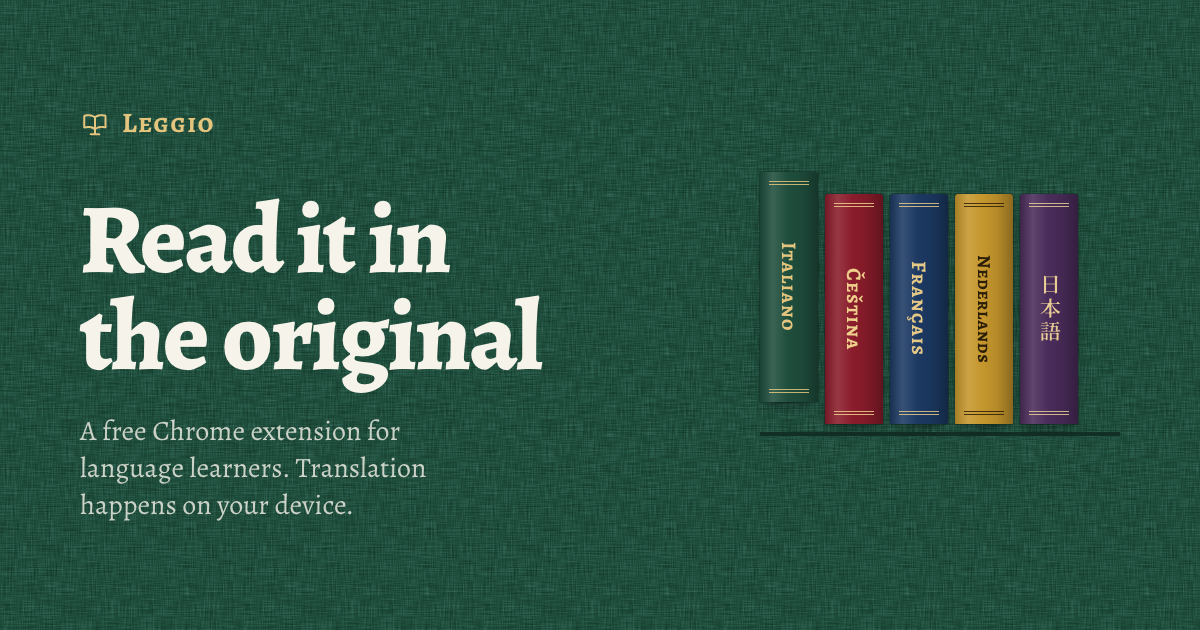
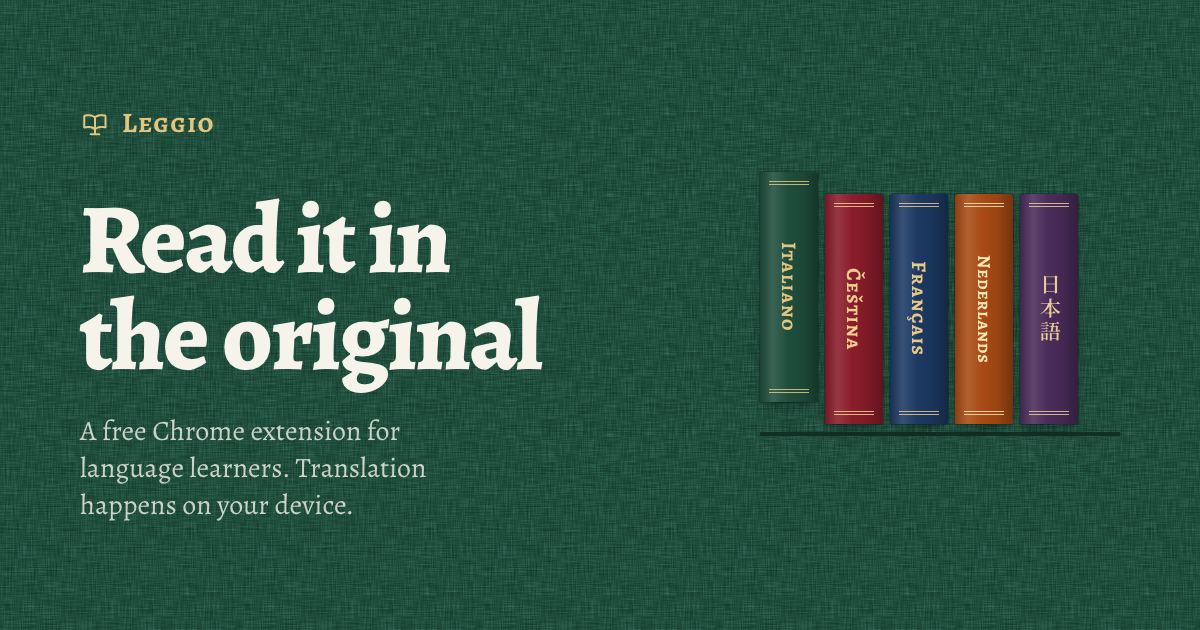
Dutch volume in burnt orange with light lettering
The Dutch cloth moves from ochre with near-black lettering to burnt orange
(#a84a14, deep #84390e) with cream lettering and pale gilt, like the other
volumes; secondary lettering held at 92% to stay above 4.5:1. The dark
footer override is gone. Share image re-rendered (v3).

Changed region(s): [[0.7708, 0.3016, 0.8633, 0.6937]]

diff --git a/site/assets/css/site.css b/site/assets/css/site.css
@@ -91,14 +91,12 @@
 [data-cloth="it"] { --cloth: #1f4e3d; --cloth-deep: #163b2e; --cloth-ink: #1f4e3d; --on-cloth: #f6f3ea; --on-cloth-2: rgb(246 243 234 / 0.8); --stamp: #e4c57e; }
 [data-cloth="cs"] { --cloth: #8a1c2b; --cloth-deep: #67131f; --cloth-ink: #8a1c2b; --on-cloth: #f8f1ea; --on-cloth-2: rgb(248 241 234 / 0.82); --stamp: #efcf8c; }
 [data-cloth="fr"] { --cloth: #1c3963; --cloth-deep: #132946; --cloth-ink: #1c3963; --on-cloth: #f3f2ee; --on-cloth-2: rgb(243 242 238 / 0.8); --stamp: #e6c987; }
-[data-cloth="nl"] { --cloth: #c5962c; --cloth-deep: #a47b1d; --cloth-ink: #6f500e; --on-cloth: #1f1708; --on-cloth-2: rgb(31 23 8 / 0.93); --stamp: #2a1e07; }
+[data-cloth="nl"] { --cloth: #a84a14; --cloth-deep: #84390e; --cloth-ink: #a84a14; --on-cloth: #fbf1e6; --on-cloth-2: rgb(251 241 230 / 0.92); --stamp: #fbe6b6; }
 [data-cloth="ja"] { --cloth: #4a2c5a; --cloth-deep: #351f41; --cloth-ink: #4a2c5a; --on-cloth: #f5f0f2; --on-cloth-2: rgb(245 240 242 / 0.8); --stamp: #e8cc94; }
 
 /* Focus rings: light on cloth, cloth-ink on paper */
 .cloth, [data-sync-cloth], .footer { --ring: var(--on-cloth); }
 .leaf, .spread, .doc { --ring: var(--cloth-ink); }
-/* The Dutch footer sits on the darker ochre board: full-strength lettering keeps it above 4.5:1 */
-[data-cloth="nl"] .footer, .footer[data-cloth="nl"] { --on-cloth: #140e03; --on-cloth-2: #140e03; }
 
 /* ---------- Base ---------- */
 

diff --git a/site/index.html b/site/index.html
@@ -12,12 +12,12 @@
   <meta property="og:site_name" content="Leggio">
   <meta property="og:title" content="Leggio: read it in the original">
   <meta property="og:description" content="A Chrome extension for language learners. See what a word means without leaving the original. Translation happens on your device.">
-  <meta property="og:image" content="https://getleggio.com/assets/img/og.png?v=2">
+  <meta property="og:image" content="https://getleggio.com/assets/img/og.png?v=3">
   <meta property="og:image:alt" content="Leggio: read it in the original. A shelf of five bookcloth volumes in Italian, Czech, French, Dutch and Japanese.">
   <meta property="og:image:width" content="1200">
   <meta property="og:image:height" content="630">
   <meta name="twitter:card" content="summary_large_image">
-  <meta name="twitter:image" content="https://getleggio.com/assets/img/og.png?v=2">
+  <meta name="twitter:image" content="https://getleggio.com/assets/img/og.png?v=3">
   <link rel="icon" href="/assets/img/favicon.svg?v=2" type="image/svg+xml">
   <link rel="apple-touch-icon" href="/assets/img/apple-touch-icon.png?v=2">
   <link rel="preload" href="/assets/fonts/alegreya-latin.woff2" as="font" type="font/woff2" crossorigin>

diff --git a/site/privacy/index.html b/site/privacy/index.html
@@ -12,7 +12,7 @@
   <meta property="og:site_name" content="Leggio">
   <meta property="og:title" content="Leggio privacy policy">
   <meta property="og:description" content="Translation runs on your device. Saved words stay in your browser. No accounts, no servers, no analytics.">
-  <meta property="og:image" content="https://getleggio.com/assets/img/og.png?v=2">
+  <meta property="og:image" content="https://getleggio.com/assets/img/og.png?v=3">
   <meta property="og:image:width" content="1200">
   <meta property="og:image:height" content="630">
   <meta name="twitter:card" content="summary_large_image">

diff --git a/site/install/index.html b/site/install/index.html
@@ -12,7 +12,7 @@
   <meta property="og:site_name" content="Leggio">
   <meta property="og:title" content="Install Leggio">
   <meta property="og:description" content="A free Chrome extension for language learners. Download it and load it in Chrome in about a minute.">
-  <meta property="og:image" content="https://getleggio.com/assets/img/og.png?v=2">
+  <meta property="og:image" content="https://getleggio.com/assets/img/og.png?v=3">
   <meta property="og:image:width" content="1200">
   <meta property="og:image:height" content="630">
   <meta name="twitter:card" content="summary_large_image">

diff --git a/DESIGN.md b/DESIGN.md
@@ -29,12 +29,12 @@ colors:
   on-cloth-fr: "#f3f2ee"
   on-cloth-fr-2: "rgb(243 242 238 / 0.8)"
   stamp-fr: "#e6c987"
-  cloth-nl: "#c5962c"
-  cloth-nl-deep: "#a47b1d"
-  cloth-nl-ink: "#6f500e"
-  on-cloth-nl: "#1f1708"
-  on-cloth-nl-2: "rgb(31 23 8 / 0.93)"
-  stamp-nl: "#2a1e07"
+  cloth-nl: "#a84a14"
+  cloth-nl-deep: "#84390e"
+  cloth-nl-ink: "#a84a14"
+  on-cloth-nl: "#fbf1e6"
+  on-cloth-nl-2: "rgb(251 241 230 / 0.92)"
+  stamp-nl: "#fbe6b6"
   cloth-ja: "#4a2c5a"
   cloth-ja-deep: "#351f41"
   cloth-ja-ink: "#4a2c5a"
@@ -277,7 +277,7 @@ components:
 
 **Creative North Star: "The Parallel-Text Edition"**
 
-Leggio is dressed as a clothbound bilingual series: each source language is a volume in its own bookcloth, and the site wears the cloth of whichever volume is open. The cloth is saturated, woven and full-bleed. It owns the page. Paper appears only as physical pages laid on it: the open spread in the hero, the preface and glossary leaves, the tipped-in plate, the gloss slips. Lettering on the cloth is blocked in gilt (or blind-stamped, on the ochre Dutch volume). The reading texts are real public-domain openings, set like an edition, with running heads, folios, chapter lines and margin line numbers.
+Leggio is dressed as a clothbound bilingual series: each source language is a volume in its own bookcloth, and the site wears the cloth of whichever volume is open. The cloth is saturated, woven and full-bleed. It owns the page. Paper appears only as physical pages laid on it: the open spread in the hero, the preface and glossary leaves, the tipped-in plate, the gloss slips. Lettering on the cloth is blocked in gilt. The reading texts are real public-domain openings, set like an edition, with running heads, folios, chapter lines and margin line numbers.
 
 The page is composed from book furniture rather than web components. The language switcher is a shelf of spines. Saved words go to the facing page, keyed by line number. Privacy is a colophon of plain facts. The ornament that closes the page is a printer's rule with a lozenge. Nothing is a card, and nothing is a feature grid. Density is low and readerly: long measures of 34 to 68ch, generous leaf margins, one idea per surface.
 
@@ -324,7 +324,7 @@ The primary colour is whichever cloth is active. Components read it through six 
 | Italiano: **Bottle Green** | #1f4e3d | #163b2e | #1f4e3d | #f6f3ea | rgb(246 243 234 / 0.8) | #e4c57e |
 | Čeština: **Carmine** | #8a1c2b | #67131f | #8a1c2b | #f8f1ea | rgb(248 241 234 / 0.82) | #efcf8c |
 | Français: **Prussian Blue** | #1c3963 | #132946 | #1c3963 | #f3f2ee | rgb(243 242 238 / 0.8) | #e6c987 |
-| Nederlands: **Ochre** | #c5962c | #a47b1d | #6f500e (Umber) | #1f1708 (Lamp Black) | rgb(31 23 8 / 0.93) | #2a1e07 (blind stamp) |
+| Nederlands: **Burnt Orange** | #a84a14 | #84390e | #a84a14 | #fbf1e6 | rgb(251 241 230 / 0.92) | #fbe6b6 (pale gilt) |
 | 日本語: **Murasaki** | #4a2c5a | #351f41 | #4a2c5a | #f5f0f2 | rgb(245 240 242 / 0.8) | #e8cc94 |
 
 - **Cloth** is the full-bleed ground (body, colophon, closing, 404, the privacy header), the spine body, the plate board and the gloss save button.
@@ -358,9 +358,9 @@ The weave is a single 240×240 SVG data URI (`--cloth-tex`). Two `feTurbulence` 
 
 **The One Cloth Rule.** One cloth per language, and the page wears the cloth of the open volume. Any element coloured by the cloth reads from the six cloth properties, never from a literal hex, so a single `data-cloth` change recolours everything in one 600ms move.
 
-**The Cloth-Ink Rule.** Cloth colour set on paper always goes through `--cloth-ink`, never `--cloth`. For four volumes the two are the same. Ochre (#c5962c) is too light to read on paper, so its cloth-ink is umber (#6f500e).
+**The Cloth-Ink Rule.** Cloth colour set on paper always goes through `--cloth-ink`, never `--cloth`. Today all five are dark enough to read on paper, so the two are the same; a lighter cloth would need a darker ink.
 
-**The Ochre Exception.** Dutch is the one light cloth, so its lettering and stamp invert to near-black (#1f1708, #2a1e07): a blind stamp instead of gilt. On the darker ochre footer board the lettering goes full-strength (#140e03) for both primary and secondary text, to stay above 4.5:1. Any new cloth must declare all six properties and pass contrast for lettering on both its cloth and its deep.
+**The Orange Margin.** Burnt orange is the lightest cloth, so it runs closest to the line: its lettering is #fbf1e6 (5.2:1), its secondary lettering is held at 92% rather than 80% to stay above 4.5:1, and its gilt is paler (#fbe6b6, 4.7:1). Any new cloth must declare all six properties and pass contrast for lettering on both its cloth and its deep.
 
 ## Typography
 
@@ -596,7 +596,7 @@ A full-cloth page titled "This page is out of print", with the wordmark, a line 
 ### Do:
 - **Do** let the cloth own every full-bleed surface on the landing page and the 404 (hero, colophon, closing, footer), and put paper only on objects laid on it: spread pages, leaves, the plate leaf, gloss slips.
 - **Do** colour anything cloth-coloured through `--cloth`, `--cloth-deep`, `--cloth-ink`, `--on-cloth`, `--on-cloth-2` and `--stamp`, so one `data-cloth` change recolours it with the rest of the page.
-- **Do** use cloth-ink for cloth colour on paper (headwords, chapter lines, underlines, step discs, focus rings on paper). Ochre's cloth-ink is umber (#6f500e) for a reason.
+- **Do** use cloth-ink for cloth colour on paper (headwords, chapter lines, underlines, step discs, focus rings on paper).
 - **Do** give every page its furniture: a running head with a folio, a centred small-caps chapter line, line numbers every fifth line, and gutter shade toward the binding.
 - **Do** set Japanese vertically, bound on the right, with the JP subset face, and keep closing punctuation on its word.
 - **Do** keep the demo honest: public-domain passages credited in the footer, glosses limited to what on-device translation gives (word, translation, sentence translation), the plate labelled as an illustration.
@@ -611,7 +611,7 @@ A full-cloth page titled "This page is out of print", with the wordmark, a line 
 - **Don't** let a gloss slip cover the facing page, at any width.
 - **Don't** make the demo, or any copy around it, claim more than the extension does. No invented features, languages, user counts, testimonials, reviews, pricing or screenshots, and no suggestion that the demo's glosses come from the live translator.
 - **Don't** make a pending button look clickable: no fill, no hover, no press, no `href`.
-- **Don't** set the ochre cloth colour (#c5962c) as text on paper, or use light lettering on the ochre cloth.
+- **Don't** brighten the orange cloth toward a flag orange: below about #a84a14 light lettering on it falls under 4.5:1.
 - **Don't** stack a small-caps label directly above a headline as a kicker. Small caps are running heads, chapter lines, terms, spine titles and the wordmark.
 - **Don't** round anything past 7px or use pill shapes. Circles are only for the step discs.
 - **Don't** add ambient or looping motion, or scroll-triggered motion beyond the one reveal. Every other animation answers a reader's action, except the bounded page-turn hint.

diff --git a/.impeccable/surfaces/site-index-html.md b/.impeccable/surfaces/site-index-html.md
@@ -20,7 +20,7 @@ Open: store URL, contact email, exact interaction model and feature list from LE
 
 THESIS: A parallel-text edition that only translates what you ask for. Refuses the extension-page default (browser mockup, three feature cards, gradient) and the cream-paper serif bookish default.
 
-OWN-WORLD: Saturated bookcloth owns the page, one cloth per language like a series colour-coded by source language (Italian bottle green, Czech carmine, French Prussian blue, Dutch ochre, Japanese murasaki). Bright white India-paper pages with gutter shade, black ink, gilt stamped lettering. Alegreya, Alegreya SC running heads, Alegreya Sans for controls. Margin line numbers, spines as the language switcher, colophon for privacy.
+OWN-WORLD: Saturated bookcloth owns the page, one cloth per language like a series colour-coded by source language (Italian bottle green, Czech carmine, French Prussian blue, Dutch burnt orange, Japanese murasaki). Bright white India-paper pages with gutter shade, black ink, gilt stamped lettering. Alegreya, Alegreya SC running heads, Alegreya Sans for controls. Margin line numbers, spines as the language switcher, colophon for privacy.
 
 STORY: The visitor sees a real passage in the original, taps a word, reads its meaning, saves it to the facing page, understands the translation is a support and runs on-device, and adds Leggio to Chrome.
 
